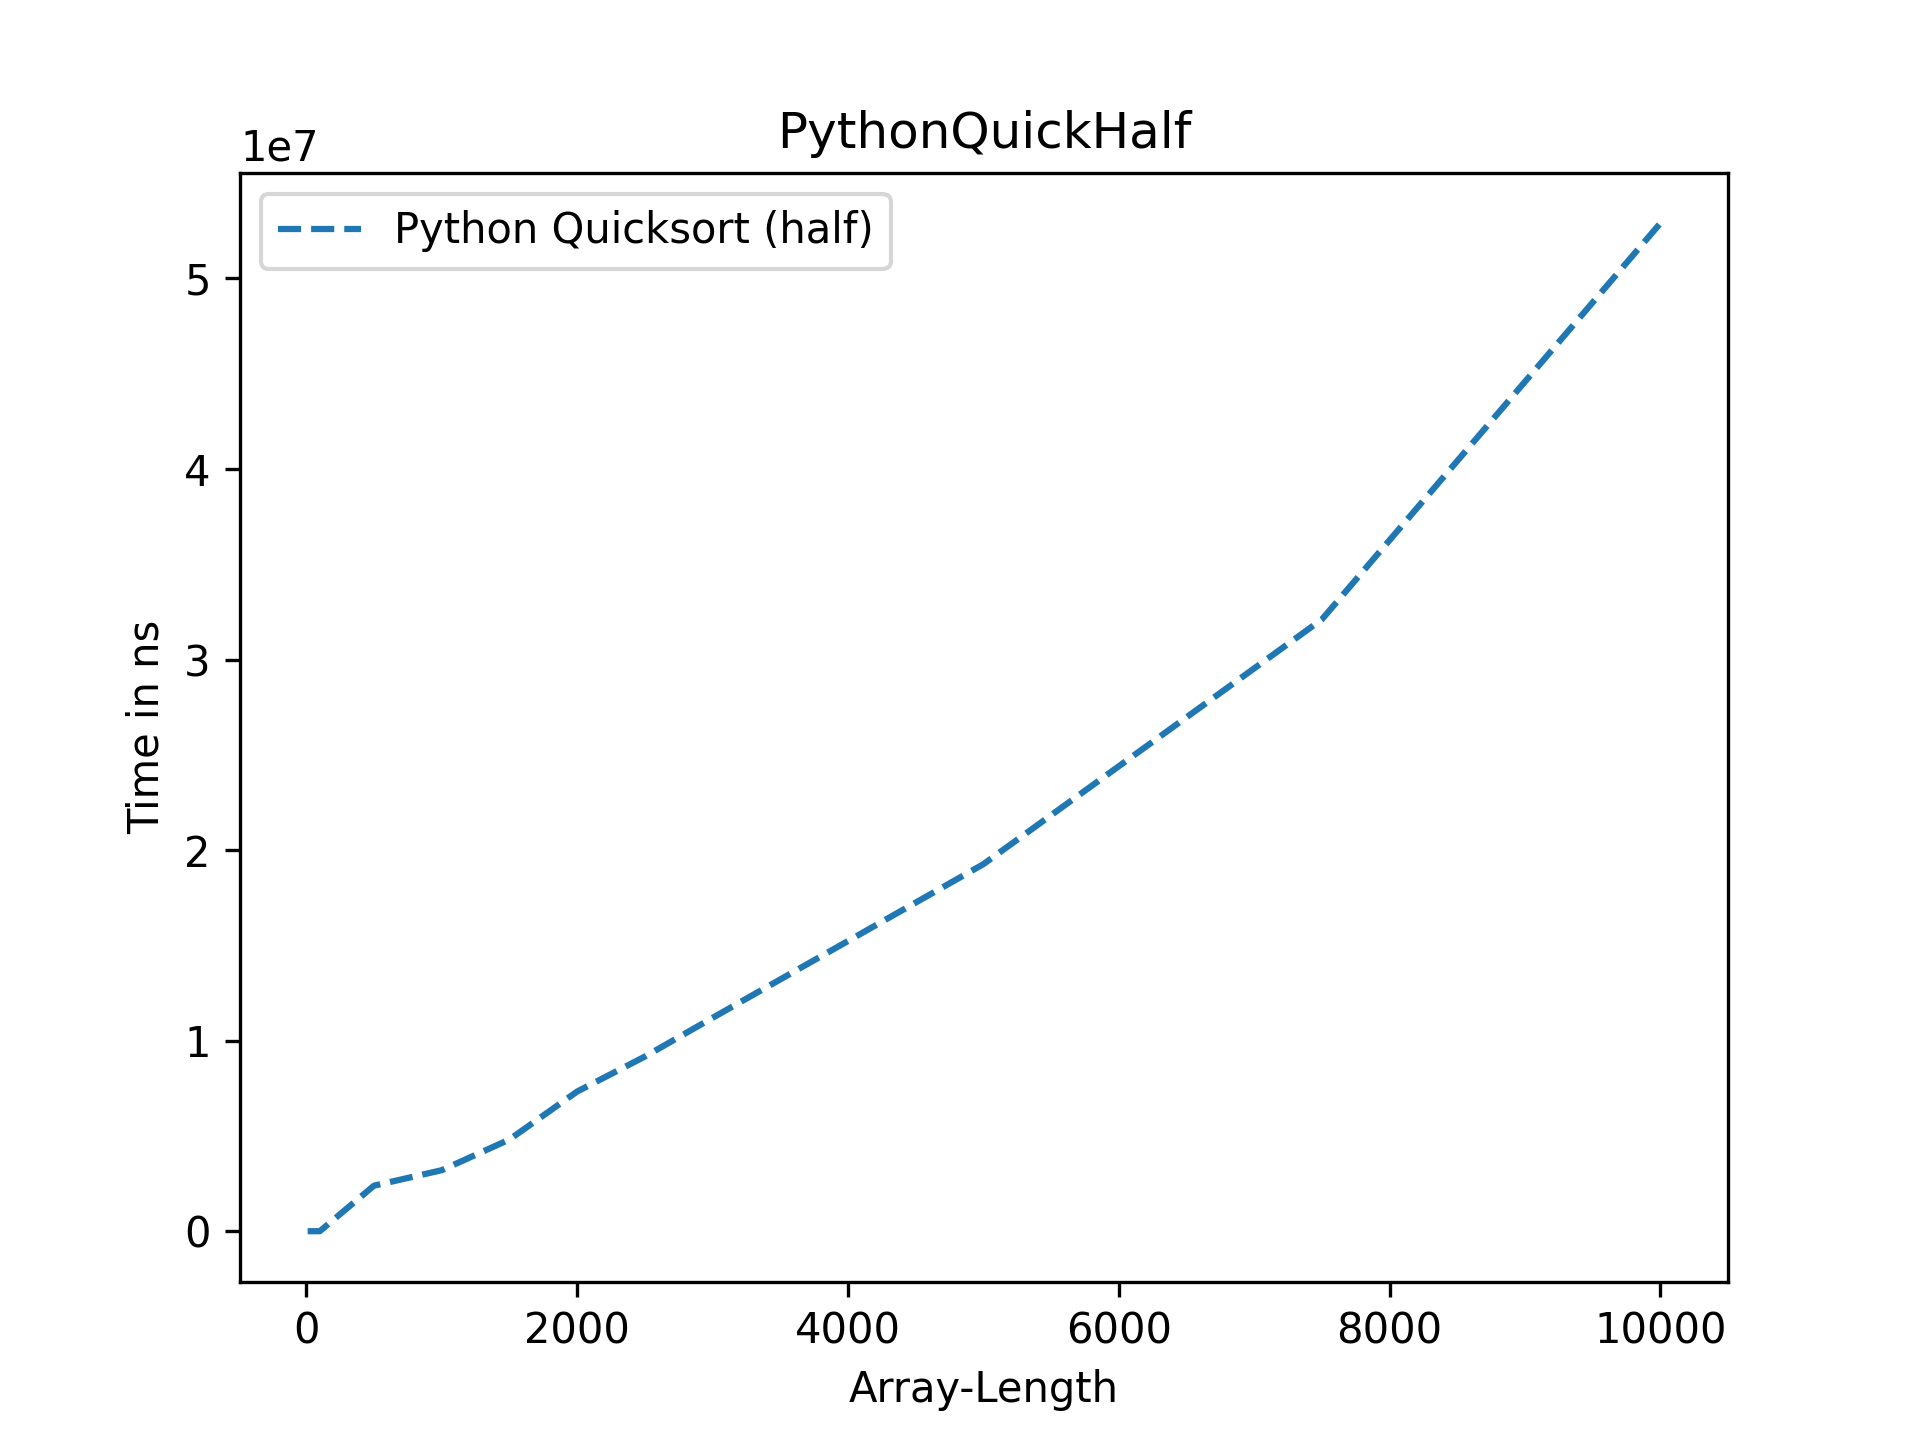
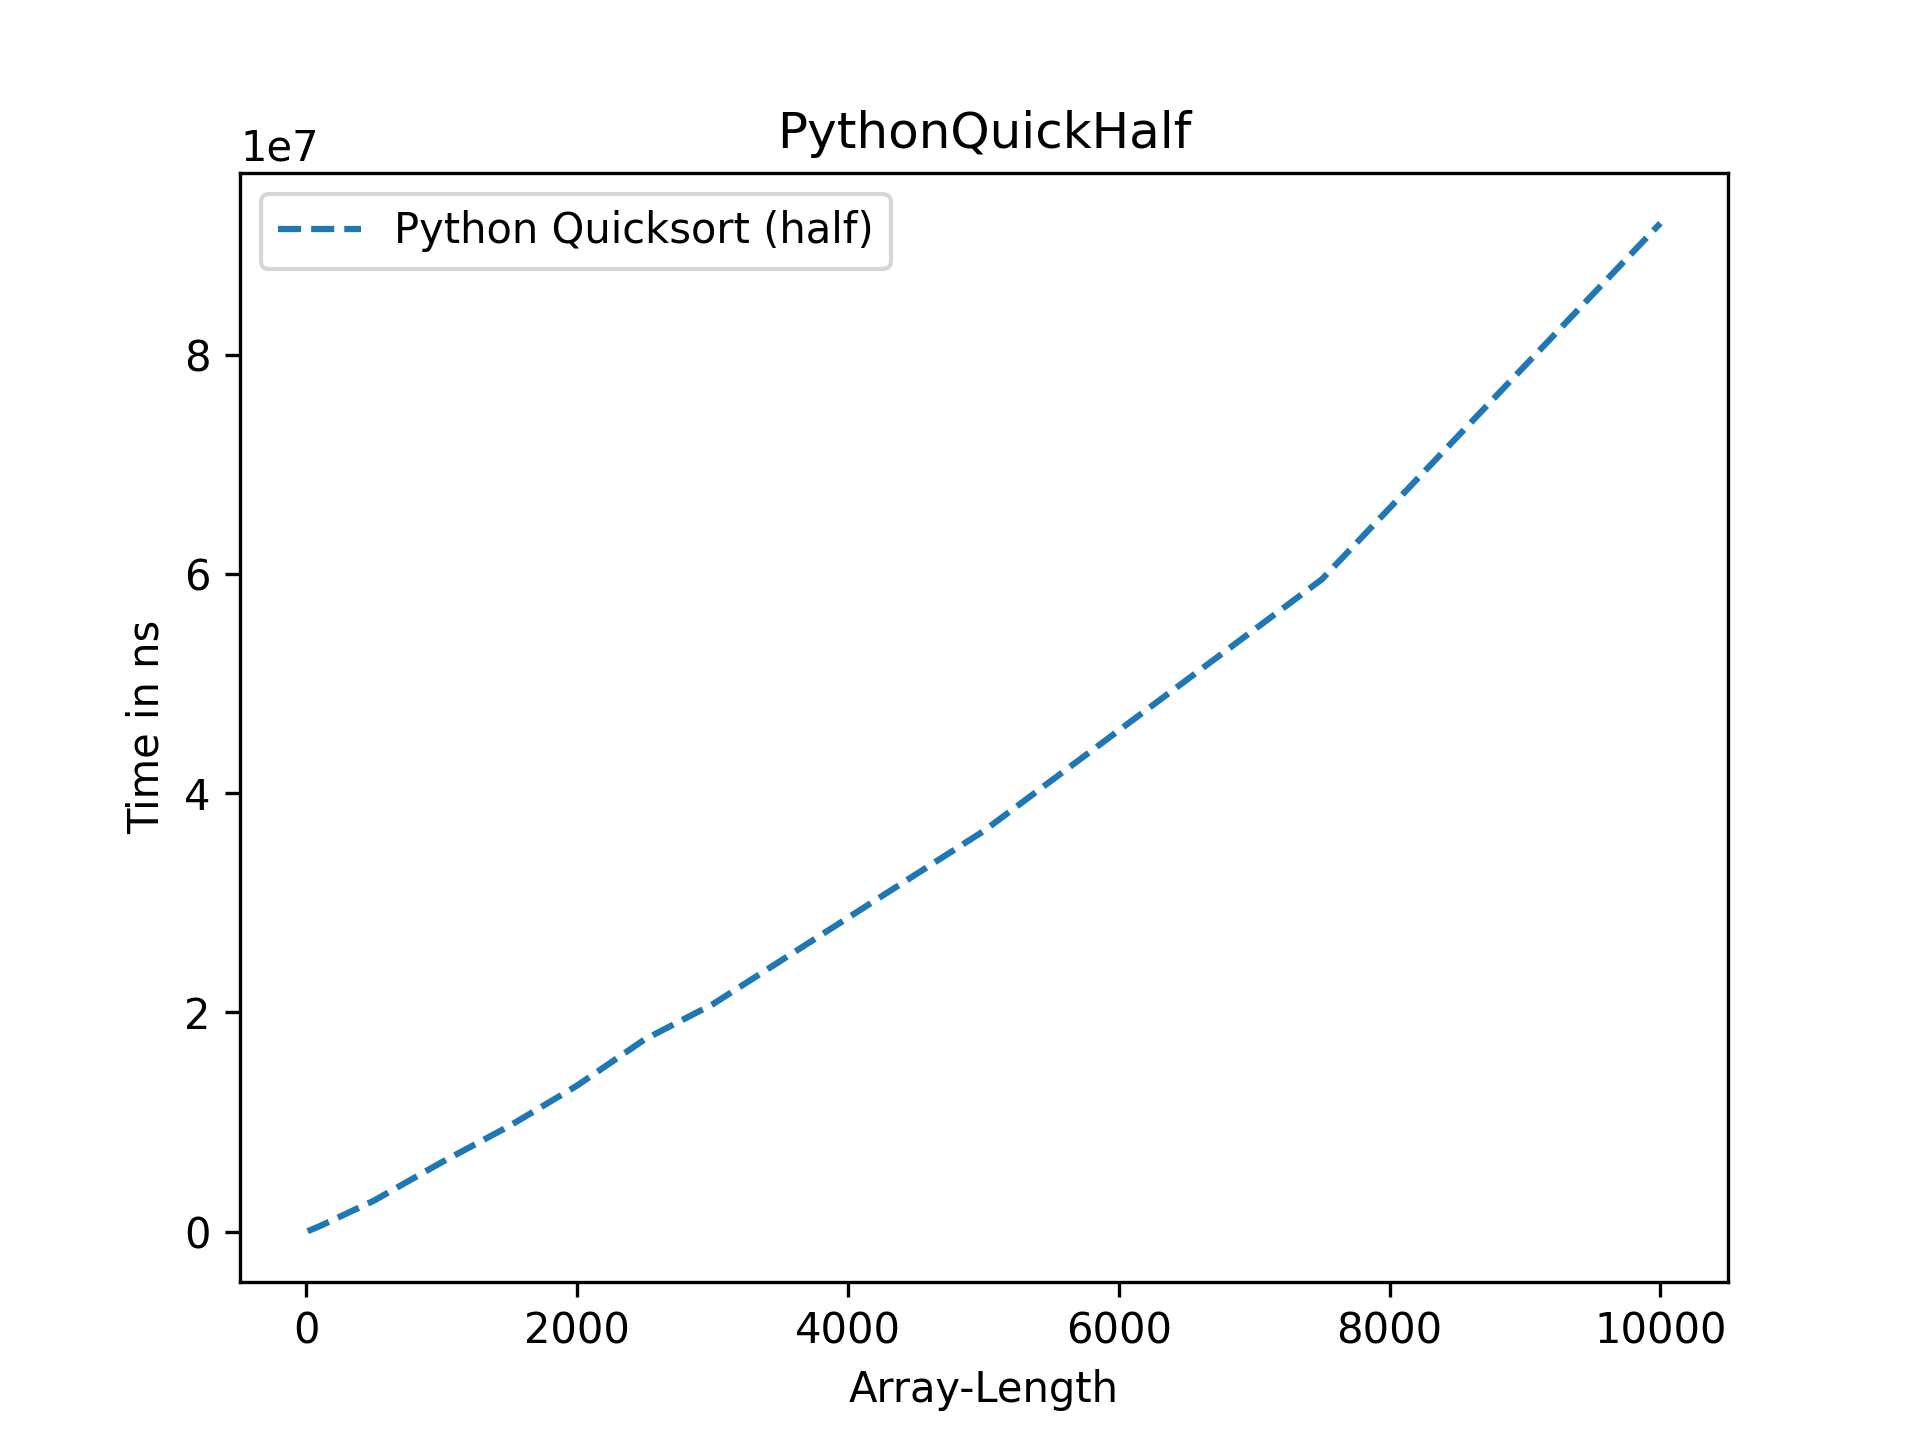
Added all plots

diff --git a/bench/bench.py b/bench/bench.py
@@ -1,3 +1,4 @@
+from math import log2
 import sorting_dll
 import numpy as np
 import sorting
@@ -11,7 +12,11 @@ def test(func,*args):
         func(arr, *args)
         assert np.array_equal(arr, arr_sorted)
     
+    _test(np.array(dtype=np.intc, object=[1, 1, 1, 1]))
     _test(np.array(dtype=np.intc, object=[1, 2, 3, 4]))
+    _test(np.array(dtype=np.intc, object=[4, 3, 2, 1]))
+    _test(np.array(dtype=np.intc, object=[1, 2, 1]))
+    _test(np.array(dtype=np.intc, object=[1]))
     _test(np.array(dtype=np.intc, object=[]))
     #add more tests here
     print("\t Passed!")
@@ -20,7 +25,7 @@ sample_sizes = [10, 100, 500, 1000, 1500, 2000, 2500, 3000, 5000, 7500, 10000]
 def bench(itcount, func, *args):
     out = []
     for samplesize in sample_sizes:
-        avg_time = 0;
+        avg_time = 0
         for i in range(0, itcount):
             arr = np.random.randint(samplesize, dtype=np.intc, size=samplesize)
             avg_time += func(arr, *args)
@@ -44,18 +49,37 @@ def save_figure(name):
     plt.clf()
     os.startfile(name + ".png")
 
-if True:
-    #we reduced the itcount for benchs which take long
-    print("Starting Benching...")
-    plt.plot(sample_sizes, bench(10,sorting.quick_sort, sorting.pivot_half),"--", label="Python Quicksort (half)")
-    save_figure("PythonQuickHalf")
-    plt.plot(sample_sizes, bench(3,sorting.quick_sort, sorting.pivot_median), label="Python Quicksort (median)") #this is really slow.
-    save_figure("PythonQuickMedian")
-    plt.plot(sample_sizes, bench(10,sorting.quick_sort, sorting.pivot_start),"--", label="Python Quicksort (start)")
-    save_figure("PythonQuickStart")
-    plt.plot(sample_sizes, bench(2,sorting.selection_sort),"--", label="Python Selectionsort ")
-    save_figure("PythonSelection")
+#we reduced the itcount for benchs which take long
+print("Starting Benching...")
+pys = bench(3,sorting.selection_sort)
+pyqh = bench(30,sorting.quick_sort, sorting.pivot_half)
+pyqm = bench(3,sorting.quick_sort, sorting.pivot_median)
+pyqs = bench(10,sorting.quick_sort, sorting.pivot_start)
+plt.plot(sample_sizes, pyqh,"--", label="Python Quicksort (half)")
+save_figure("PythonQuickHalf")
+plt.plot(sample_sizes, pyqm, "--", label="Python Quicksort (median)") #this is really slow.
+save_figure("PythonQuickMedian")
+plt.plot(sample_sizes, pyqs, "--", label="Python Quicksort (start)")
+save_figure("PythonQuickStart")
+plt.plot(sample_sizes, pys,"--", label="Python Selectionsort")
+save_figure("PythonSelection")
+plt.plot(sample_sizes, pyqh,"--", label="Python Quicksort (half)")
+plt.plot(sample_sizes, [n * log2(n) * 700  for n in sample_sizes.copy()],"--", label="Approximation")
+save_figure("ApproximationQuickSort")
+plt.plot(sample_sizes, pys,"--", label="Python Quicksort (half)")
+plt.plot(sample_sizes, [n * n * 110  for n in sample_sizes.copy()],"--", label="Approximation")
+save_figure("ApproximationSelectionSort")
+plt.plot(sample_sizes, pyqh,"--", label="Python Quicksort (half)")
+plt.plot(sample_sizes, pyqm, "--", label="Python Quicksort (median)") #this is really slow.
+plt.plot(sample_sizes, pyqs, "--", label="Python Quicksort (start)")
+plt.plot(sample_sizes, pys,"--", label="Python Selectionsort")
+save_figure("PythonAll")
 
-plt.plot(sample_sizes, bench(30,sorting_dll.RunQuickSort),"--", label="C++ Quicksort")
+cppq = bench(30,sorting_dll.RunQuickSort)
+plt.plot(sample_sizes, cppq,"--", label="C++ Quicksort")
 plt.plot(sample_sizes, bench(30,sorting.native_sort),"--", label="Python Sort")
-save_figure("PythonVSCpp")
+save_figure("PythonSortVSCpp")
+
+plt.plot(sample_sizes, cppq,"--", label="C++ Quicksort")
+plt.plot(sample_sizes, pyqh,"--", label="Python Quicksort")
+save_figure("LanguageSpeedComparison")
